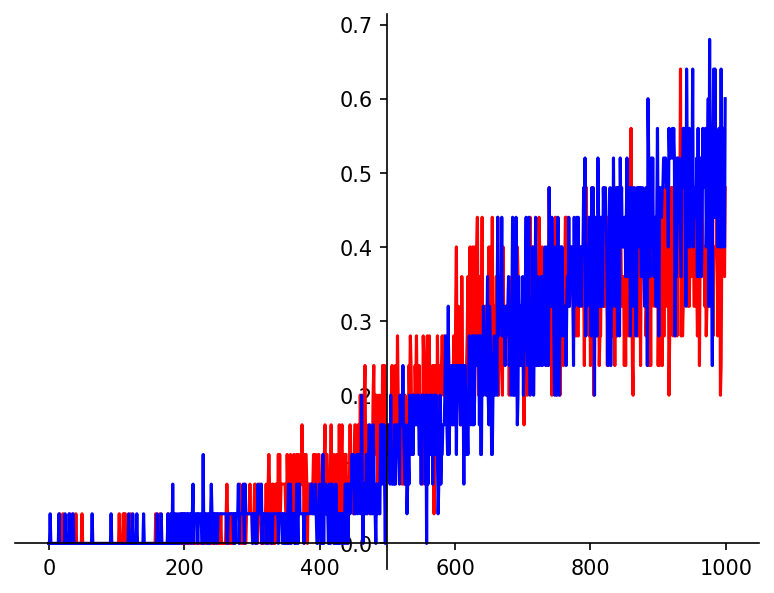
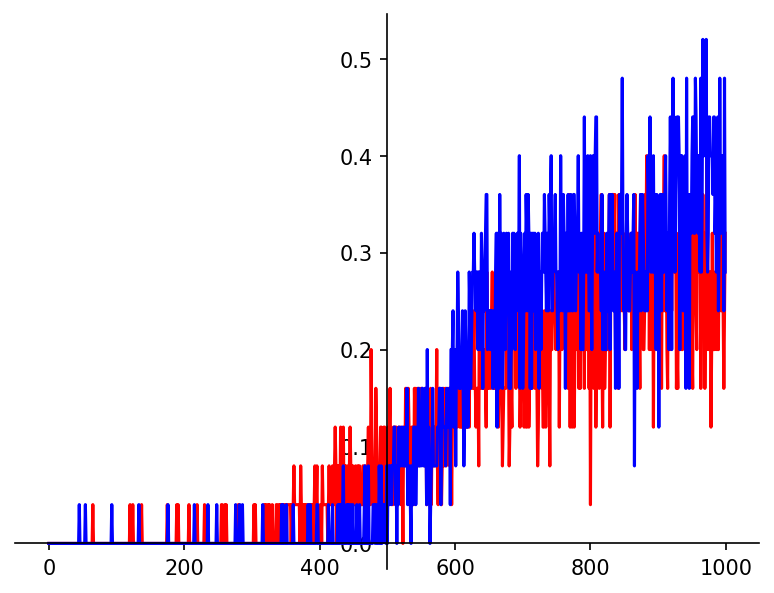
yes

diff --git a/src/assignment_06/a6_main.py b/src/assignment_06/a6_main.py
@@ -54,7 +54,8 @@ def run_q_learning(is_slippery=False, num_episodes=1000, reward_type="base"):
     state_size = env.observation_space.n
     action_size = env.action_space.n
 
-    averaged_reward = np.zeros(num_episodes)
+    rewards_per_episode = np.zeros((num_of_ind_runs, num_episodes))
+    final_rewards = np.zeros(num_of_ind_runs)
 
     for run in range(num_of_ind_runs):
         qtable = np.zeros((state_size, action_size))
@@ -77,21 +78,30 @@ def run_q_learning(is_slippery=False, num_episodes=1000, reward_type="base"):
                     target = q_reward + gamma * np.max(qtable[next_state])
 
                 qtable[state, action] = qtable[state, action] + alpha * (
-                        target - qtable[state, action]
+                    target - qtable[state, action]
                 )
 
                 state = next_state
-                reward = reward + step_reward
+                reward += step_reward
 
                 if done:
                     break
 
-            averaged_reward[episode] = averaged_reward[episode] + reward
+            rewards_per_episode[run, episode] = reward
 
-    averaged_reward = averaged_reward / (num_of_ind_runs)
+        final_rewards[run] = np.mean(rewards_per_episode[run])
+
+    averaged_reward = np.mean(rewards_per_episode, axis=0)
+
+    stats = {
+        "min": np.min(final_rewards),
+        "mean": np.mean(final_rewards),
+        "std": np.std(final_rewards),
+        "max": np.max(final_rewards),
+    }
 
     env.close()
-    return averaged_reward
+    return averaged_reward, stats
 
 
 # ================== PLOTS ==================
@@ -112,23 +122,49 @@ def draw_plot(averaged_reward_base, averaged_reward, filename):
     plt.close(fig)
 
 # ================== TESTS ==================
+def print_stats(name, stats):
+    print(
+        f"{name}: "
+        f"min={stats['min']:.6f}, "
+        f"mean={stats['mean']:.6f}, "
+        f"std={stats['std']:.6f}, "
+        f"max={stats['max']:.6f}"
+    )
+
+
 def run_test(is_slippery=False, num_episodes=1000):
     suffix = "true" if is_slippery else "false"
 
-    averaged_reward_base = run_q_learning(is_slippery, num_episodes, "base")
-    print("base mean:", np.mean(averaged_reward_base))
+    print("\n==============================")
+    print(f"is_slippery={is_slippery}, episodes={num_episodes}")
+    print("==============================")
 
-    averaged_reward = run_q_learning(is_slippery, num_episodes, "base")
-    print("base second run mean:", np.mean(averaged_reward))
-    draw_plot(averaged_reward_base, averaged_reward, f"results/base_vs_base_{suffix}.png")
+    averaged_reward_base, stats_base = run_q_learning(is_slippery, num_episodes, "base")
+    print_stats("base", stats_base)
 
-    averaged_reward = run_q_learning(is_slippery, num_episodes, "custom_1")
-    print("custom_1 mean:", np.mean(averaged_reward))
-    draw_plot(averaged_reward_base, averaged_reward, f"results/base_vs_custom1_{suffix}.png")
+    averaged_reward_base_second, stats_base_second = run_q_learning(is_slippery, num_episodes, "base")
+    print_stats("base second run", stats_base_second)
+    draw_plot(
+        averaged_reward_base,
+        averaged_reward_base_second,
+        f"results/base_vs_base_{suffix}.png"
+    )
 
-    averaged_reward = run_q_learning(is_slippery, num_episodes, "custom_2")
-    print("custom_2 mean:", np.mean(averaged_reward))
-    draw_plot(averaged_reward_base, averaged_reward, f"results/base_vs_custom2_{suffix}.png")
+    averaged_reward_custom_1, stats_custom_1 = run_q_learning(is_slippery, num_episodes, "custom_1")
+    print_stats("custom_1", stats_custom_1)
+    draw_plot(
+        averaged_reward_base,
+        averaged_reward_custom_1,
+        f"results/base_vs_custom1_{suffix}.png"
+    )
+
+    averaged_reward_custom_2, stats_custom_2 = run_q_learning(is_slippery, num_episodes, "custom_2")
+    print_stats("custom_2", stats_custom_2)
+    draw_plot(
+        averaged_reward_base,
+        averaged_reward_custom_2,
+        f"results/base_vs_custom2_{suffix}.png"
+    )
 
 
 # ================== RUN ==================
